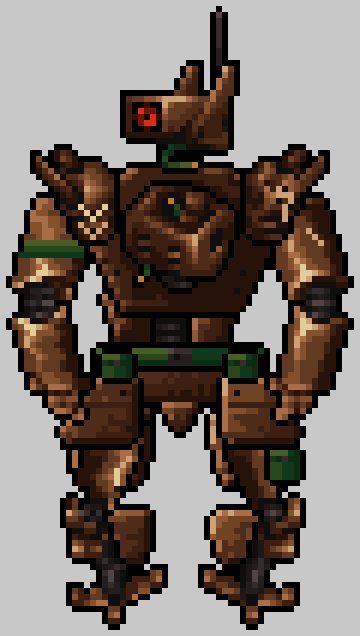
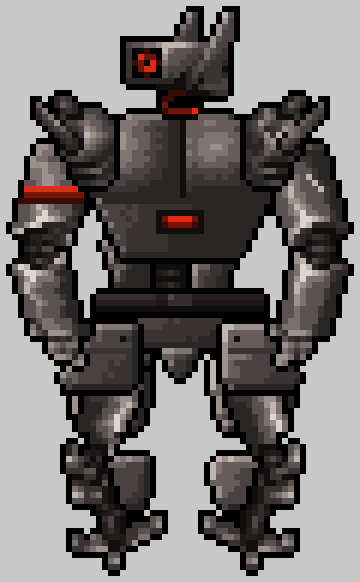
Robot: grey/red scheme, own torso, strip clutter
- Source torso removed; chest is now two convex pectoral plates with a
  sternum seam and a single recessed red light
- Whole figure recoloured to a warm grey armour ramp; red only for the
  eye, cable lights, chest light and one armband
- Green removed (source cables recoloured dark red)
- Pouches, chevrons, stencil number, antenna and extra vents removed;
  belt is plain dark metal

Claude-Session: https://claude.ai/code/session_01EWMNWsVqx69rUqnPkEUbPk

diff --git a/design/quasimorph_robot/build_robot.py b/design/quasimorph_robot/build_robot.py
@@ -1,4 +1,4 @@
-"""Quasimorph-style military robot, assembled at native 1x from the five source parts.
+"""Quasimorph-style military robot (grey/red), assembled at native 1x from the five source parts.
 usage: python3 build_robot.py <dir with n1..n5.png native parts> <out dir>"""
 import sys
 from PIL import Image, ImageOps
@@ -46,18 +46,10 @@ armR=crop(P[1].rotate(90,expand=True));  armL=twin(armR)
 legR=crop(P[3].rotate(-90,expand=True)); legL=twin(legR)      # kneecaps face outward
 padL=crop(P[5]);                         padR=twin(padL)
 
-# --- per-side wear & markings: same model of limb, different unit history ---
-for y,c in ((8,GN[3]),(9,GN[2]),(10,GN[1])):             # olive armband, left upper arm
-    paint(armL,[(x,y) for x in range(armL.width)],c)
-paint(armL,[(5,9)],GN[3])
+# --- per-side wear: same model of limb, different history (kept minimal) ---
+for y,c in ((8,RD[2]),(9,RD[1]),(10,RD[0])):             # red unit band, left upper arm
+    paint(armL,[(x,y) for x in range(armL.width)],c,('b','g','x'))
 paint(armR,[(8,6),(9,7),(10,8)],BR[7]); paint(armR,[(9,6),(10,7),(11,8)],BR[1])   # gouge, right upper arm
-paint(armR,[(3,24),(3,27)],GR[0])                                                    # field-repair rivets
-V=((0,0),(1,1),(2,2),(3,1),(4,0))
-for row,(lit,sh) in ((10,(H('e2cc98'),BR[1])),(13,(H("cea173"),BR[1]))):        # rank chevrons, left pad
-    paint(padL,[(8+dx,row+dy) for dx,dy in V],lit,('b','g'))
-    paint(padL,[(8+dx,row+dy+1) for dx,dy in V if (dx,dy)!=(2,2)],sh,('b','g'))
-for x,y in ((6,8),(7,8),(8,8),(8,9),(7,10),(7,11),(7,12)):                         # stencilled "7", right pad
-    paint(padR,[(x,y)],H('cea173'),('b','g'))
 paint(legL,[(10,20),(11,21)],BR[7]); paint(legL,[(11,20),(12,21)],BR[1])             # knee scuff
 
 W,Hh=96,124
@@ -102,36 +94,48 @@ def shade(mask,bright=0.0,hl=True,form=0.30):
     pix={}
     for (x,y) in mask:
         nx=(x-x0)/w; ny=(y-y0)/h
-        v=0.42+bright-form*nx-0.18*ny+noise(x,y)*0.12
+        v=0.42+bright-form*nx-0.18*ny+noise(x,y)*0.07
         if (x-1,y) not in mask or (x,y-1) not in mask: v+=0.30          # lit rim
         if (x+1,y) not in mask or (x,y+1) not in mask: v-=0.30          # shadow rim
         pix[(x,y)]=ramp(DR[:6] if not hl else DR,v)
+    return pix
+def dome(mask,bright=0.0,lx=0.3,ly=0.3):
+    """convex plate: highlight cluster toward the upper-left, falling off to a dark lower-right"""
+    xs=[p[0] for p in mask]; ys=[p[1] for p in mask]
+    x0,x1,y0,y1=min(xs),max(xs),min(ys),max(ys); w=max(1,x1-x0); h=max(1,y1-y0)
+    pix={}
+    for (x,y) in mask:
+        d=(((x-x0)/w-lx)**2+((y-y0)/h-ly)**2)**.5
+        v=0.78+bright-d*1.05+noise(x,y)*0.06
+        if (x-1,y) not in mask or (x,y-1) not in mask: v+=0.12
+        if (x+1,y) not in mask or (x,y+1) not in mask: v-=0.3
+        pix[(x,y)]=ramp(DR,v)
     return pix
 def rows_mask(rows,y0): return {(x,y0+i) for i,(l,r) in enumerate(rows) for x in range(l,r+1)}
 def slot(pix,x,y,n=2):                                                    # recessed vent like the source torso
     for k in range(n): pix[(x+k,y)]=GR[0]
     for k in range(n): pix.setdefault((x+k,y-1),None); pix[(x+k,y-1)]=BR[0]
 
-def carapace(cx,y0,core_box):
+def carapace(cx,y0):
     prof=[18,24,28,30,32,32,32,32,32,32,32,31,31,30,29,28,27,26,25,24,23,22,21,20]
     rows=[(cx-w//2,cx-w//2+w-1) for w in prof]
     pix=shade(rows_mask(rows,y0),bright=0.12,form=0.5)
-    for ry in (9,15):
-        l,r=rows[ry]
-        for x in range(l+1,l+4): pix[(x,y0+ry)]=BR[0]
-        for x in range(r-3,r): pix[(x,y0+ry)]=BR[0]
-        pix[(l+1,y0+ry+1)]=BR[4]
-    for ry in (11,17):
+    # two pectoral plates, each a convex slab lit from the upper-left
+    for half in (0,1):
+        m={p for p in pix if (p[0]<cx-1 if half==0 else p[0]>cx) and y0+1<=p[1]<=y0+13}
+        pix.update(dome(m,bright=0.12 if half==0 else 0.0))
+    for y in range(y0+1,y0+14):                          # sternum seam
+        pix[(cx-1,y)]=BR[0]; pix[(cx,y)]=GR[0]
+    for x in range(rows[14][0]+1,rows[14][1]):          # lower edge of the chest plates
+        pix[(x,y0+14)]=BR[0]
+    # chest light in a recessed housing
+    for x in range(cx-4,cx+4):
+        for y in range(y0+16,y0+20): pix[(x,y)]=GR[0]
+    for x in range(cx-3,cx+3):
+        pix[(x,y0+17)]=RD[2] if cx-2<=x<=cx+1 else RD[1]
+        pix[(x,y0+18)]=RD[1] if cx-2<=x<=cx+1 else RD[0]
+    for ry in (11,):
         l,r=rows[ry]; slot(pix,l+2,y0+ry); slot(pix,r-3,y0+ry)
-    for ry in (4,20):
-        l,r=rows[ry]; pix[(l+2,y0+ry)]=GR[0]; pix[(r-2,y0+ry)]=GR[0]
-    # recess: armour next to the core falls into shadow (core is set into the chest, not on it)
-    core_mask,cxo=core_box
-    for (x,y) in list(pix):
-        near=any((x+dx,y+dy) in core_mask for dx in (-2,-1,0,1,2) for dy in (-2,-1,0,1,2))
-        if near and (x,y) not in core_mask:
-            below_right=any((x-dx,y-dy) in core_mask for dx in (1,2) for dy in (0,1,2)) or any((x,y-dy) in core_mask for dy in (1,2))
-            pix[(x,y)]=BR[0] if below_right else BR[1]
     return pix
 def abdomen_spine(cx,y0,h):
     pix={}
@@ -157,11 +161,9 @@ def belt(cx,y0,w):
     for i in range(3):
         for x in range(cx-w//2,cx-w//2+w):
             t=(x-(cx-w//2))/w
-            pix[(x,y0+i)]=(GN[2] if t<0.4 else GN[1]) if i<2 else GN[0]
-    for x in range(cx-w//2,cx-w//2+w//2): pix[(x,y0)]=GN[3]
+            pix[(x,y0+i)]=(GR[3] if t<0.35 else GR[2]) if i==0 else (GR[2] if t<0.35 else GR[1]) if i==1 else GR[0]
     for x in range(cx-2,cx+2):
-        for i in range(3): pix[(x,y0+i)]=GR[3] if i==0 else GR[2]
-    pix[(cx-2,y0)]=GR[4]; pix[(cx-1,y0+1)]=GR[0]
+        pix[(x,y0)]=GR[4] if x==cx-2 else GR[3]; pix[(x,y0+1)]=GR[3]
     return pix
 def strap(x,y0,y1):
     pix={}
@@ -216,7 +218,6 @@ def cable(points,shade_=1):
 # ---------------- assemble ----------------
 cx=44
 cy=30
-layer_draw(antenna(cx+6,cy-26,12))
 layer_draw(neck(cx,cy-4,6))
 hip=12
 LY=cy+38                                             # leg sprite top
@@ -227,7 +228,6 @@ layer_draw(shell(cx+hip,LY+1,[12,13,14,14,14,14,14,14,13,13,12,12,11,10]))
 layer_draw(shell(cx-hip+1,LY+19,[11,12,12,12,12,11,11,10,9]))
 layer_draw(shell(cx+hip-1,LY+19,[11,12,12,12,12,11,11,10,9]))
 sprite(legL,lxL,LY); sprite(legR,lxR,LY)
-layer_draw(pouch(cx+hip+3,LY+9,5,5))                 # thigh rig, right leg, outer side
 layer_draw(joint(cx-hip+1,LY,4)); layer_draw(joint(cx+hip-1,LY,4))
 layer_draw(pelvis(cx,cy+33))
 layer_draw(tasset(cx-hip-6,cy+35,11,11,-1))
@@ -237,15 +237,19 @@ layer_draw(abdomen_spine(cx-2,cy+18,13))
 layer_draw(ab_plate(cx-6,cy+20,10,-1))
 layer_draw(ab_plate(cx+2,cy+20,10,1))
 layer_draw(belt(cx,cy+30,28))
-layer_draw(pouch(cx-13,cy+31)); layer_draw(pouch(cx+8,cy+31))
 sprite(armL,cx-29,cy+4); sprite(armR,cx+13,cy+4)
-core_xy=(cx-10,cy+2)
-core_mask={(core_xy[0]+x,core_xy[1]+y) for x in range(core.width) for y in range(core.height) if core.getpixel((x,y))[3]}
-layer_draw(carapace(cx,cy,(core_mask,cx)))
-sprite(core,*core_xy)
+layer_draw(carapace(cx,cy))
 sprite(head,cx-10,cy-18)
 sprite(padL,cx-25,cy-4); sprite(padR,cx+10,cy-4)
 
+GREY={'261209':'2b2626','3d1f12':'3a3333','4f2c19':'4a4242','502c1a':'4a4242','623921':'5a5151',
+      '704325':'675d5c','84512f':'7a706e','8d5936':'807573','aa6e46':'9c908c','cea173':'bfb5af','e2cc98':'ddd5cf',
+      '0b2b13':'380b04','10381a':'380b04','2a461b':'701508','465e24':'701508','c27a2d':'e02a11'}
+GREY={H(k):H(v) for k,v in GREY.items()}
+for y in range(Hh):
+    for x in range(W):
+        c=px[x,y]
+        if c[3] and c in GREY: px[x,y]=GREY[c]
 out=crop(cv); o=Image.new('RGBA',(out.width+2,out.height+2)); o.alpha_composite(out,(1,1))
 o.save(OUT+'robot_1x.png')
 o.resize((o.width*3,o.height*3),Image.NEAREST).save(OUT+'robot_3x.png')
